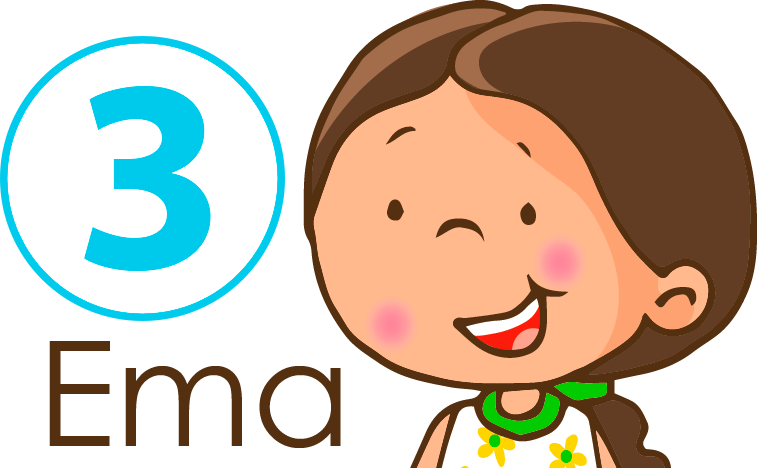
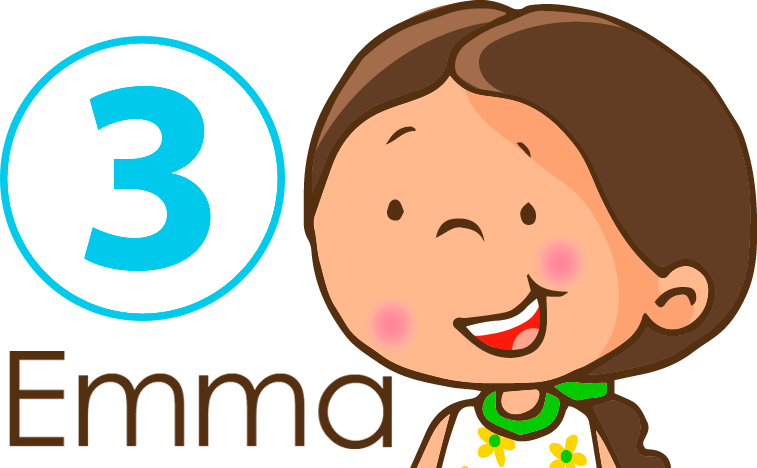
Correccion ASMA2T1-20

Changed region(s): [[0.0, 0.7179, 0.5165, 0.9573]]

diff --git a/avanzadas/ASMA2T1/20/index.html b/avanzadas/ASMA2T1/20/index.html
@@ -1,1 +1,1 @@
-<html><head><meta charset="UTF-8"><meta name="viewport" content="width=device-width, initial-scale=1.0"><title></title></head><body data="ASOMATE-ESP" class="bg-beige h-full"><div class="mx-auto h-full" id="app"><div><av-scene class="" v-bind:automatic-scene="true"><av-start></av-start></av-scene><av-scene class="" v-bind:automatic-scene="true"><av-info title="" interaction="drag" class=""><action-timeline show="0" hide="" completed="1" completed-audio="" ok="" ok-audio="" error="" error-audio=""><module-audiotext text="Mira cuántos dulces ganaron Ana, Ema, Omar y Uriel. " audio="assets/MATEMATICAS2_DULCESDEPIÑATA_MIRA.wav" v-bind:autoplay="true" class=""></module-audiotext></action-timeline><action-timeline show="1" hide="" completed="" completed-audio="" ok="" ok-audio="" error="" error-audio=""><module-audiotext text="Arrastra hasta la casilla de cada personaje la cantidad de dulces que ganó. " audio="assets/MATEMATICAS2_DULCESDEPIÑATA_ARRASTRA.wav" v-bind:autoplay="true" class=" mt-2 mt-3"></module-audiotext></action-timeline></av-info><av-activity class=""><layout-grid columns="2" columns-md="1" gap="2" class=" my-5"><layout-grid columns="2" columns-md="7" gap="0.5" class=""><action-repeater v-bind:options="[{'v1':'i1','v2':'','v3':'','v4':''},{'v1':'i1','v2':'','v3':'','v4':''},{'v1':'','v2':'','v3':'','v4':''},{'v1':'','v2':'','v3':'','v4':''},{'v1':'','v2':'','v3':'','v4':''},{'v1':'','v2':'','v3':'','v4':''},{'v1':'','v2':'','v3':'','v4':''},{'v1':'','v2':'','v3':'','v4':''},{'v1':'','v2':'','v3':'','v4':''},{'v1':'','v2':'','v3':'','v4':''},{'v1':'','v2':'','v3':'','v4':''},{'v1':'','v2':'','v3':'','v4':''},{'v1':'','v2':'','v3':'','v4':''}]"><template #option="{v1,v2,v3,v4}"><module-drag v-bind:only-ok="false" v-bind:only-error="false" v-bind:allok="false" dropzone="drop1" answer="a" liner="0" connector="0" design="0" class=" w-fit h-fit" :inmediate="true"><layout-img img="assets/05.png" class=" w-14"></layout-img></module-drag></template></action-repeater></layout-grid><layout-grid columns="1" columns-md="2" gap="8" class=" mx-auto"><div class=" flex flex-col justify-center items-center"><layout-img img="assets/08.png" class=" w-40"></layout-img><module-drop name="drop1" design="1" answer="a" limit="8" class=" flex-wrap w-full h-48" v-bind:no-arrow="false" v-bind:horizontal="false"></module-drop></div><div class=" flex flex-col justify-center items-center"><layout-img img="assets/11.png" class=" w-40"></layout-img><module-drop name="drop1" design="1" answer="a" limit="5" class=" flex-wrap w-full h-48" v-bind:no-arrow="false" v-bind:horizontal="false"></module-drop></div></layout-grid></layout-grid></av-activity></av-scene><av-scene class="" v-bind:automatic-scene="true"><av-info title="" interaction="drag" class=""><action-timeline show="0" hide="" completed="1" completed-audio="" ok="" ok-audio="" error="" error-audio=""><module-audiotext text="Mira cuántos dulces ganaron Ana, Ema, Omar y Uriel. " audio="https://ucarecdn.com/1d036edb-534c-4bf2-a892-3f867fc16b5c/" v-bind:autoplay="true" class=""></module-audiotext></action-timeline><action-timeline show="1" hide="" completed="" completed-audio="" ok="" ok-audio="" error="" error-audio=""><module-audiotext text="Arrastra hasta la casilla de cada personaje la cantidad de dulces que ganó. " audio="https://ucarecdn.com/136de7db-1cba-4772-92e5-9fcc9ebf33ad/" v-bind:autoplay="true" class=" mt-2 mt-3"></module-audiotext></action-timeline></av-info><av-activity class=""><layout-grid columns="2" columns-md="1" gap="2" class=" my-5"><layout-grid columns="2" columns-md="7" gap="0.5" class=""><action-repeater v-bind:options="[{'v1':'i1','v2':'','v3':'','v4':''},{'v1':'i1','v2':'','v3':'','v4':''},{'v1':'','v2':'','v3':'','v4':''},{'v1':'','v2':'','v3':'','v4':''},{'v1':'','v2':'','v3':'','v4':''},{'v1':'','v2':'','v3':'','v4':''},{'v1':'','v2':'','v3':'','v4':''},{'v1':'','v2':'','v3':'','v4':''},{'v1':'','v2':'','v3':'','v4':''},{'v1':'','v2':'','v3':'','v4':''},{'v1':'','v2':'','v3':'','v4':''},{'v1':'','v2':'','v3':'','v4':''},{'v1':'','v2':'','v3':'','v4':''}]"><template #option="{v1,v2,v3,v4}"><module-drag v-bind:only-ok="false" v-bind:only-error="false" v-bind:allok="false" dropzone="drop1" answer="a" liner="0" connector="0" design="0" class=" w-fit h-fit" :inmediate="true"><layout-img img="assets/03.png" class=" w-14"></layout-img></module-drag></template></action-repeater></layout-grid><layout-grid columns="1" columns-md="2" gap="8" class=" mx-auto"><div class=" flex flex-col justify-center items-center"><layout-img img="assets/10.png" class=" w-40"></layout-img><module-drop name="drop1" design="1" answer="a" limit="10" class=" flex-wrap w-full h-48" v-bind:no-arrow="false" v-bind:horizontal="false"></module-drop></div><div class=" flex flex-col justify-center items-center"><layout-img img="assets/09.png" class=" w-40"></layout-img><module-drop name="drop1" design="1" answer="a" limit="3" class=" flex-wrap w-full h-48" v-bind:no-arrow="false" v-bind:horizontal="false"></module-drop></div></layout-grid></layout-grid></av-activity></av-scene><av-scene class="" v-bind:automatic-scene="true"><av-end></av-end></av-scene></div></div><script src="https://cdn.jsdelivr.net/gh/bluemx/blueodasv2@v1.2.6/lib/loader.min.js" data-loader-version="v1.2.6" type="text/javascript"></script></body></html>
+<html><head><meta charset="UTF-8"><meta name="viewport" content="width=device-width, initial-scale=1.0"><title></title></head><body data="ASOMATE-ESP" class="bg-beige h-full"><div class="mx-auto h-full" id="app"><div><av-scene class="" v-bind:automatic-scene="true" end-audio="" v-bind:force-oks="0" data-module-id="Comenzar"><av-start data-module-id="ComenzarODA"></av-start></av-scene><av-scene class="" v-bind:automatic-scene="true" end-audio="" v-bind:force-oks="0" data-module-id="Escena 1"><av-info title="Dulces de piñata" interaction="drag" class="" data-module-id="LaterialInfo"><action-timeline show="0" hide="" completed="1" completed-audio="" ok="" ok-audio="" error="" error-audio="" v-bind:multiok="[]"><module-audiotext text="Mira cuántos dulces ganaron Ana y Omar. " audio="assets/Ana y Omar.mp3" v-bind:autoplay="true" class="" data-module-id="Instruccion"></module-audiotext></action-timeline><action-timeline show="1" hide="" completed="" completed-audio="" ok="" ok-audio="" error="" error-audio="" v-bind:multiok="[]"><module-audiotext text="Arrastra hasta la casilla de cada personaje la cantidad de dulces que ganó. " audio="assets/MATEMATICAS2_DULCESDEPIÑATA_ARRASTRA.wav" v-bind:autoplay="true" class=" mt-2 mt-3" data-module-id="Instruccion"></module-audiotext></action-timeline></av-info><av-activity class="" data-module-id="Actividad"><layout-grid columns="2" columns-md="1" gap="2" class=" my-5" data-module-id="TODO"><layout-grid columns="2" columns-md="7" gap="0.5" class="" data-module-id="Dulces 🍪🍩🍪🍩"><action-repeater v-bind:options="[{'v1':'i1','v2':'','v3':'','v4':''},{'v1':'i1','v2':'','v3':'','v4':''},{'v1':'','v2':'','v3':'','v4':''},{'v1':'','v2':'','v3':'','v4':''},{'v1':'','v2':'','v3':'','v4':''},{'v1':'','v2':'','v3':'','v4':''},{'v1':'','v2':'','v3':'','v4':''},{'v1':'','v2':'','v3':'','v4':''},{'v1':'','v2':'','v3':'','v4':''},{'v1':'','v2':'','v3':'','v4':''},{'v1':'','v2':'','v3':'','v4':''},{'v1':'','v2':'','v3':'','v4':''},{'v1':'','v2':'','v3':'','v4':''}]"><template #option="{v1,v2,v3,v4}"><module-drag v-bind:only-ok="false" v-bind:only-error="false" v-bind:allok="false" dropzone="drop1" answer="a" liner="0" connector="0" design="0" class=" w-fit h-fit" :inmediate="true" v-bind:clone="false" v-bind:clone-deletable="false" data-module-id="0ef8258b5"><layout-img img="assets/05.png" class=" w-14" data-module-id="034416c6c"></layout-img></module-drag></template></action-repeater></layout-grid><layout-grid columns="1" columns-md="2" gap="8" class=" mx-auto" data-module-id="Niños😀😁"><div class=" flex flex-col justify-center items-center" data-z="false" data-module-id="0120da9f9"><layout-img img="assets/08.png" class=" w-40" data-module-id="0e54ce8e5"></layout-img><module-drop name="drop1" design="1" answer="a" limit="8" class=" flex-wrap w-full h-48" v-bind:no-arrow="false" v-bind:horizontal="false" v-bind:empty-is-error="false" v-bind:emit-completed="false" data-module-id="1bf7fb4a3"></module-drop></div><div class=" flex flex-col justify-center items-center" data-z="false" data-module-id="00bf8e6f"><layout-img img="assets/11.png" class=" w-40" data-module-id="0e54ce8e5"></layout-img><module-drop name="drop1" design="1" answer="a" limit="5" class=" flex-wrap w-full h-48" v-bind:no-arrow="false" v-bind:horizontal="false" v-bind:empty-is-error="false" v-bind:emit-completed="false" data-module-id="1bf7fb4a3"></module-drop></div></layout-grid></layout-grid></av-activity></av-scene><av-scene class="" v-bind:automatic-scene="true" end-audio="" v-bind:force-oks="0" data-module-id="Escena 2"><av-info title="Dulces de piñata" interaction="drag" class="" data-module-id="LaterialInfo"><action-timeline show="0" hide="" completed="1" completed-audio="" ok="" ok-audio="" error="" error-audio="" v-bind:multiok="[]"><module-audiotext text="Mira cuántos dulces ganaron Uriel y Emma." audio="assets/Uriel y Emma.mp3" v-bind:autoplay="true" class="" data-module-id="Instruccion"></module-audiotext></action-timeline><action-timeline show="1" hide="" completed="" completed-audio="" ok="" ok-audio="" error="" error-audio="" v-bind:multiok="[]"><module-audiotext text="Arrastra hasta la casilla de cada personaje la cantidad de dulces que ganó. " audio="https://ucarecdn.com/136de7db-1cba-4772-92e5-9fcc9ebf33ad/" v-bind:autoplay="true" class=" mt-2 mt-3" data-module-id="Instruccion"></module-audiotext></action-timeline></av-info><av-activity class="" data-module-id="Actividad"><layout-grid columns="2" columns-md="1" gap="2" class=" my-5" data-module-id="TODO"><layout-grid columns="2" columns-md="7" gap="0.5" class="" data-module-id="Dulces 🍪🍩🍪🍩"><action-repeater v-bind:options="[{'v1':'i1','v2':'','v3':'','v4':''},{'v1':'i1','v2':'','v3':'','v4':''},{'v1':'','v2':'','v3':'','v4':''},{'v1':'','v2':'','v3':'','v4':''},{'v1':'','v2':'','v3':'','v4':''},{'v1':'','v2':'','v3':'','v4':''},{'v1':'','v2':'','v3':'','v4':''},{'v1':'','v2':'','v3':'','v4':''},{'v1':'','v2':'','v3':'','v4':''},{'v1':'','v2':'','v3':'','v4':''},{'v1':'','v2':'','v3':'','v4':''},{'v1':'','v2':'','v3':'','v4':''},{'v1':'','v2':'','v3':'','v4':''}]"><template #option="{v1,v2,v3,v4}"><module-drag v-bind:only-ok="false" v-bind:only-error="false" v-bind:allok="false" dropzone="drop1" answer="a" liner="0" connector="0" design="0" class=" w-fit h-fit" :inmediate="true" v-bind:clone="false" v-bind:clone-deletable="false" data-module-id="0ef8258b5"><layout-img img="assets/03.png" class=" w-14" data-module-id="034416c6c"></layout-img></module-drag></template></action-repeater></layout-grid><layout-grid columns="1" columns-md="2" gap="8" class=" mx-auto" data-module-id="Niños😀😁"><div class=" flex flex-col justify-center items-center" data-z="false" data-module-id="0120da9f9"><layout-img img="assets/10.png" class=" w-40" data-module-id="0e54ce8e5"></layout-img><module-drop name="drop1" design="1" answer="a" limit="10" class=" flex-wrap w-full h-48" v-bind:no-arrow="false" v-bind:horizontal="false" v-bind:empty-is-error="false" v-bind:emit-completed="false" data-module-id="1bf7fb4a3"></module-drop></div><div class=" flex flex-col justify-center items-center" data-z="false" data-module-id="00bf8e6f"><layout-img img="assets/09.png" class=" w-40" data-module-id="0e54ce8e5"></layout-img><module-drop name="drop1" design="1" answer="a" limit="3" class=" flex-wrap w-full h-48" v-bind:no-arrow="false" v-bind:horizontal="false" v-bind:empty-is-error="false" v-bind:emit-completed="false" data-module-id="1bf7fb4a3"></module-drop></div></layout-grid></layout-grid></av-activity></av-scene><av-scene class="" v-bind:automatic-scene="true" end-audio="" v-bind:force-oks="0" data-module-id="Finalizar"><av-end data-module-id="FinalizarODA"></av-end></av-scene></div></div><script src="https://cdn.jsdelivr.net/gh/bluemx/blueodasv2@v1.2.30/lib/loader.min.js" data-loader-version="v1.2.30" type="text/javascript"></script></body></html>
